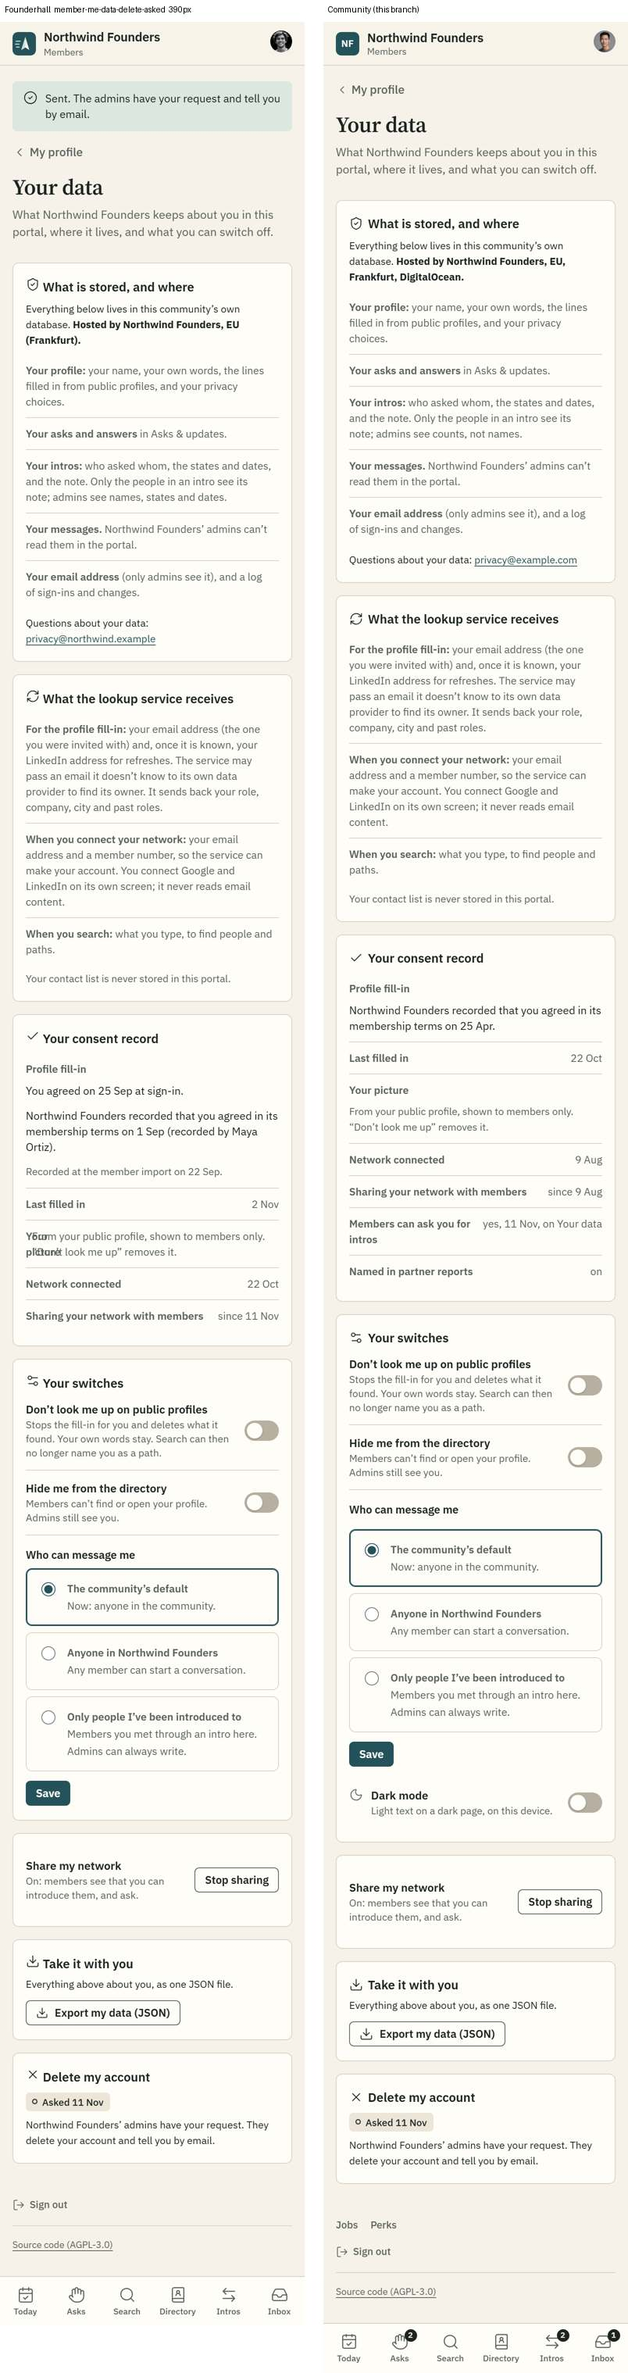
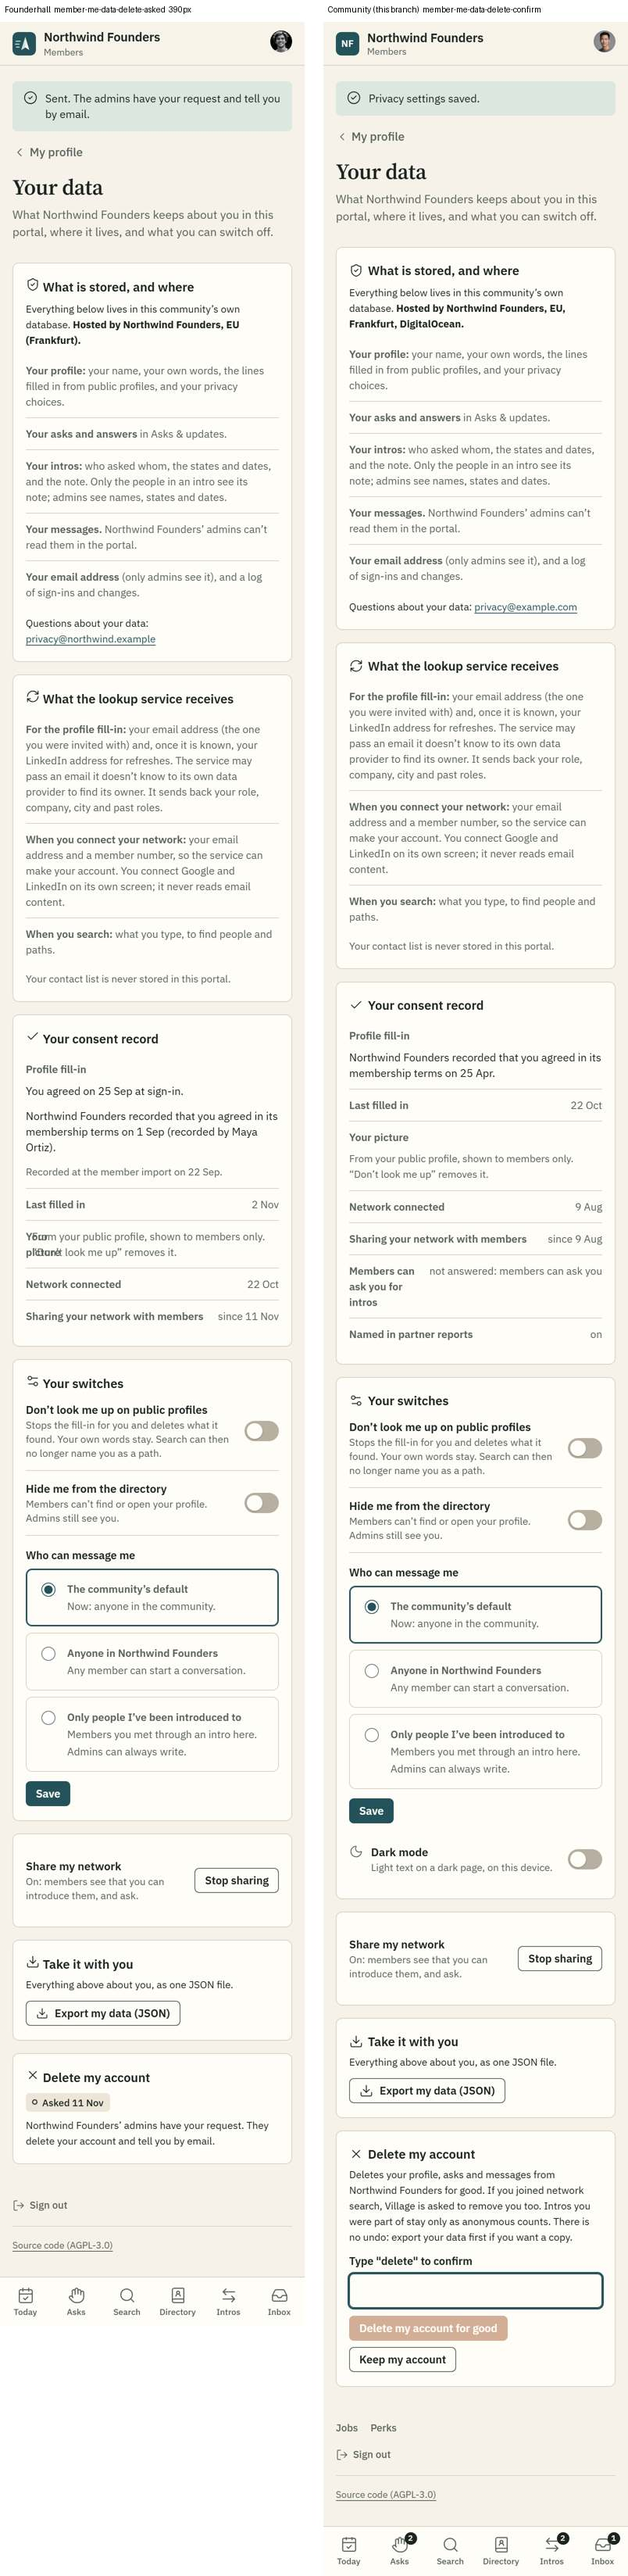
One delete per page on Your data; Founderhall's gap under Who can message me; follow-up proof and verification

diff --git a/src/modules/members/components/your-data-actions.tsx b/src/modules/members/components/your-data-actions.tsx
@@ -2,7 +2,7 @@
 
 import { useMutation } from "@tanstack/react-query";
 import { Download, X } from "lucide-react";
-import { useState } from "react";
+import { useRef, useState } from "react";
 
 import { FormError } from "@/components/form-error";
 import { Button } from "@/components/ui/button";
@@ -63,6 +63,8 @@ function goToSignIn() {
 export function DeleteAccountSheet({ communityName, isAdmin }: { communityName: string; isAdmin: boolean }) {
   const [isConfirming, setIsConfirming] = useState(false);
   const [typed, setTyped] = useState("");
+  // One delete per page: a double click must not send a second request, whose "already gone" would hide the first answer.
+  const hasSubmitted = useRef(false);
   const deletion = useMutation({ mutationFn: deleteOwnAccount, onSuccess: ({ isVillageIncomplete }) => (isVillageIncomplete ? undefined : goToSignIn()) });
   const isTypedRight = typed.trim().toLowerCase() === DELETE_CONFIRMATION_WORD;
   return (
@@ -89,7 +91,9 @@ export function DeleteAccountSheet({ communityName, isAdmin }: { communityName: 
           className="mt-2.5 grid gap-2.5"
           onSubmit={(event) => {
             event.preventDefault();
-            if (isTypedRight) deletion.mutate(typed);
+            if (!isTypedRight || hasSubmitted.current) return;
+            hasSubmitted.current = true;
+            deletion.mutate(typed, { onError: () => (hasSubmitted.current = false) });
           }}
         >
           <div className="grid gap-1.5">

diff --git a/src/modules/members/components/your-data-switches.tsx b/src/modules/members/components/your-data-switches.tsx
@@ -102,7 +102,7 @@ export function SwitchesSheet({ communityName, isHidden, messagePolicy, isMessag
       {isMessagesOn ? (
         <fieldset className="mt-3.5">
           <legend className="fh-label">Who can message me</legend>
-          <div className="mt-2">
+          <div>
             {radio(MESSAGE_POLICIES.communityDefault, "The community’s default", `Now: ${COMMUNITY_DEFAULT_WORDS[COMMUNITY_MESSAGE_POLICY]}.`)}
             {radio(MESSAGE_POLICIES.anyone, `Anyone in ${communityName}`, "Any member can start a conversation.")}
             {radio(MESSAGE_POLICIES.introduced, "Only people I’ve been introduced to", "Members you met through an intro here. Admins can always write.")}

diff --git a/src/platform/email/kinds.ts b/src/platform/email/kinds.ts
@@ -50,7 +50,6 @@ const TOPIC_BY_KIND: Record<EmailKind, EmailTopic | null> = {
   [EMAIL_KINDS.introThread]: null,
   // The one plain answer to an emailed reply: why it didn't land, or the next step after a YES.
   [EMAIL_KINDS.replyNotice]: null,
-  // To each admin: a member asked to delete their account. Admins need it to act.
 };
 
 export const EMAIL_TOPIC_LABELS: Record<EmailTopic, { title: string; description: string }> = {

diff --git a/.ai/features/fh-directory-profile/reports/verification.md b/.ai/features/fh-directory-profile/reports/verification.md
@@ -161,3 +161,27 @@ Everything else is community data (a), kept Community function (b) or owned else
 4. "Your switches" icon: PASS (Lucide settings-2).
 
 Verdict after repair: PASS. The pairs in `pairs/` were retaken after the repair.
+
+## Follow-up round (2026-11-11): the real delete and "admins see names"
+
+The owner changed two things after the first check: members keep the real "Delete my account", and Your data says the
+admins see who asked whom. So the sections above on the deletion email and on "admins see counts, not names" no longer
+apply: the request flow, its table and its email are removed, and row 63's sentence now matches Founderhall's word for word.
+
+An independent verifier retook Your data at 390 and 1280 px (as a member, after Save, and at the delete confirm step) beside
+Founderhall's `member-me-data`, `-saved`, `-json` and `-delete-asked` shots (pairs in `pairs/member-me-data*.jpg`).
+- Matches: the intros sentence ("…admins see names, states and dates."); the "Privacy settings saved." flash.
+- Owner-decided: the Delete my account sheet uses Community's words and the real delete ("Delete my account" → type
+  "delete" → "Delete my account for good" / "Keep my account") instead of Founderhall's request and "Asked <date>" state.
+- Community data and kept Community functions as before (hosting line, consent rows, Dark mode row, Perks).
+- Found and fixed: a double click on "Delete my account for good" sent a second request whose "already gone" hid the
+  first answer (now one submit per page); a leftover comment in the email list; 8 px too much under "Who can message me"
+  (now 18 px, as Founderhall). Re-check: all three pass.
+
+Delete click-through with made-up members (Priya Shah, Tomas Novak, Zara Ahmed, Noah Berg; `delete-flow/`): a wrong word
+keeps the button disabled; "Keep my account" returns to the button; the right word deletes; with no Village in the demo
+the sheet says what is left to do, and Done goes to `/signin?accountDeleted=true`. In the database each row is now
+"Deleted member" at `deleted-<id>@reclaimed.invalid`, banned, with no sessions; old sessions go to sign-in. The only admin
+gets 409 "This community needs at least one admin."; an admin's own sheet says "You are an admin…".
+
+Verdict: PASS.
